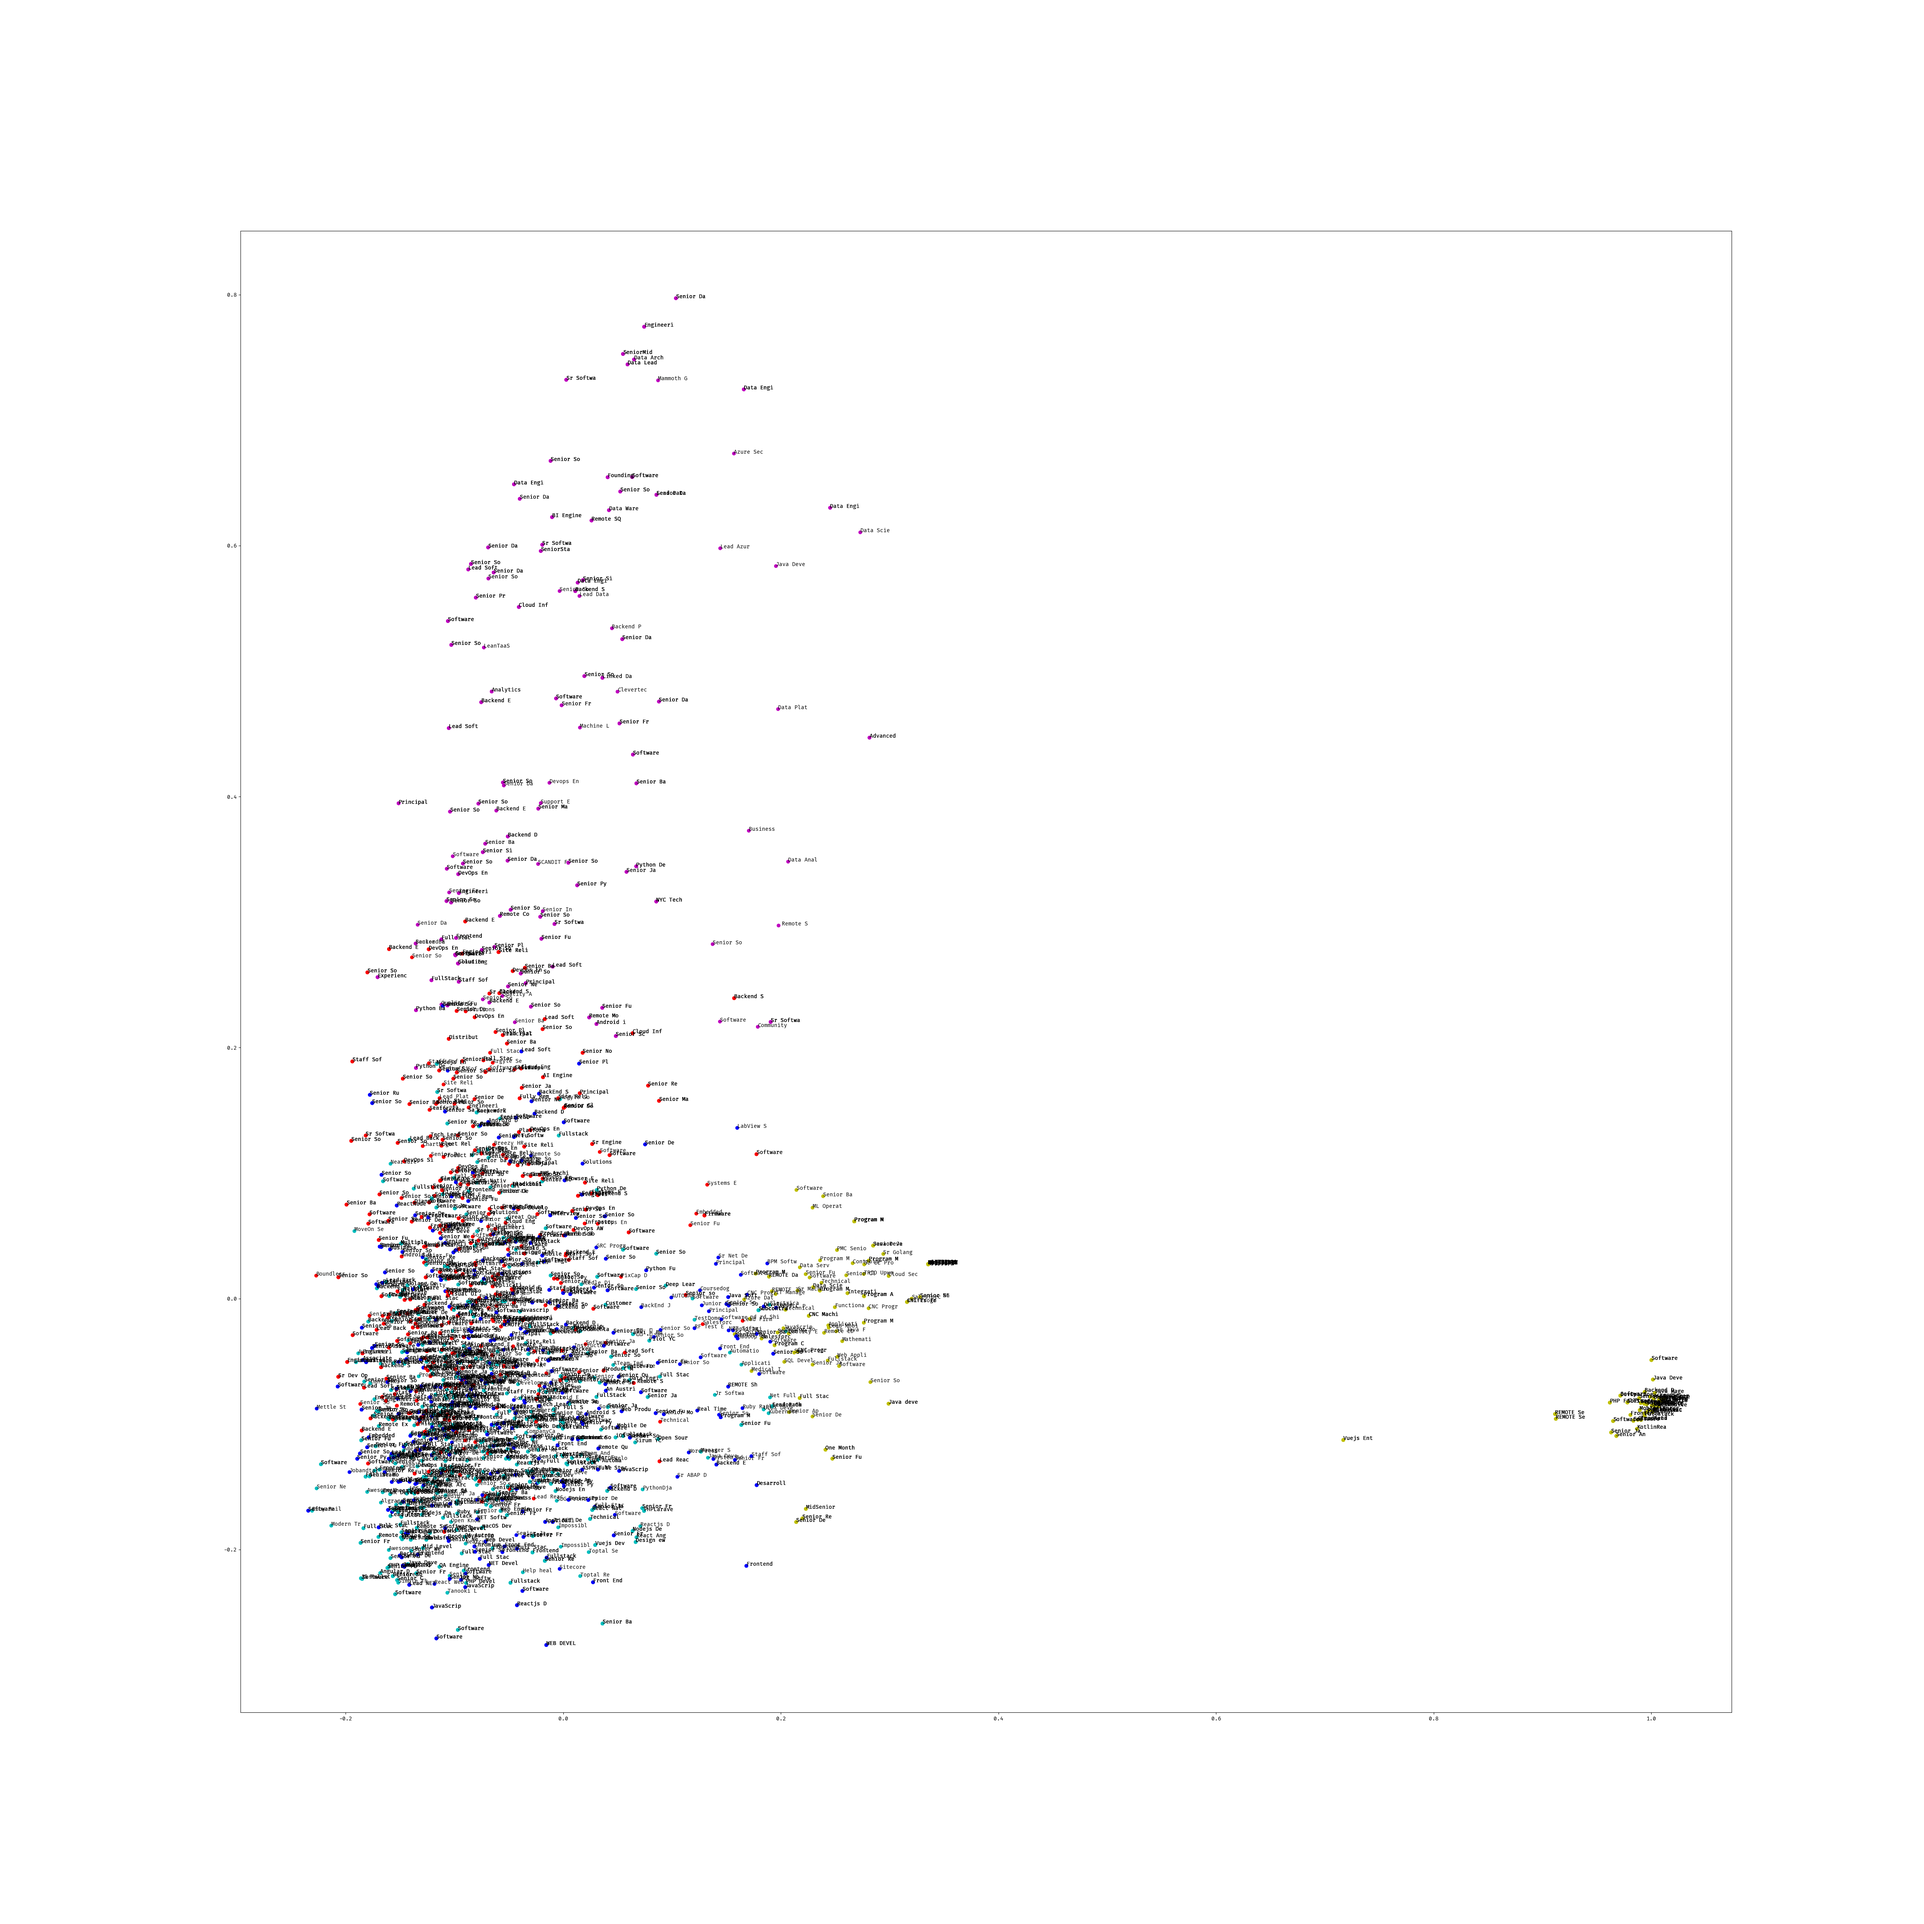
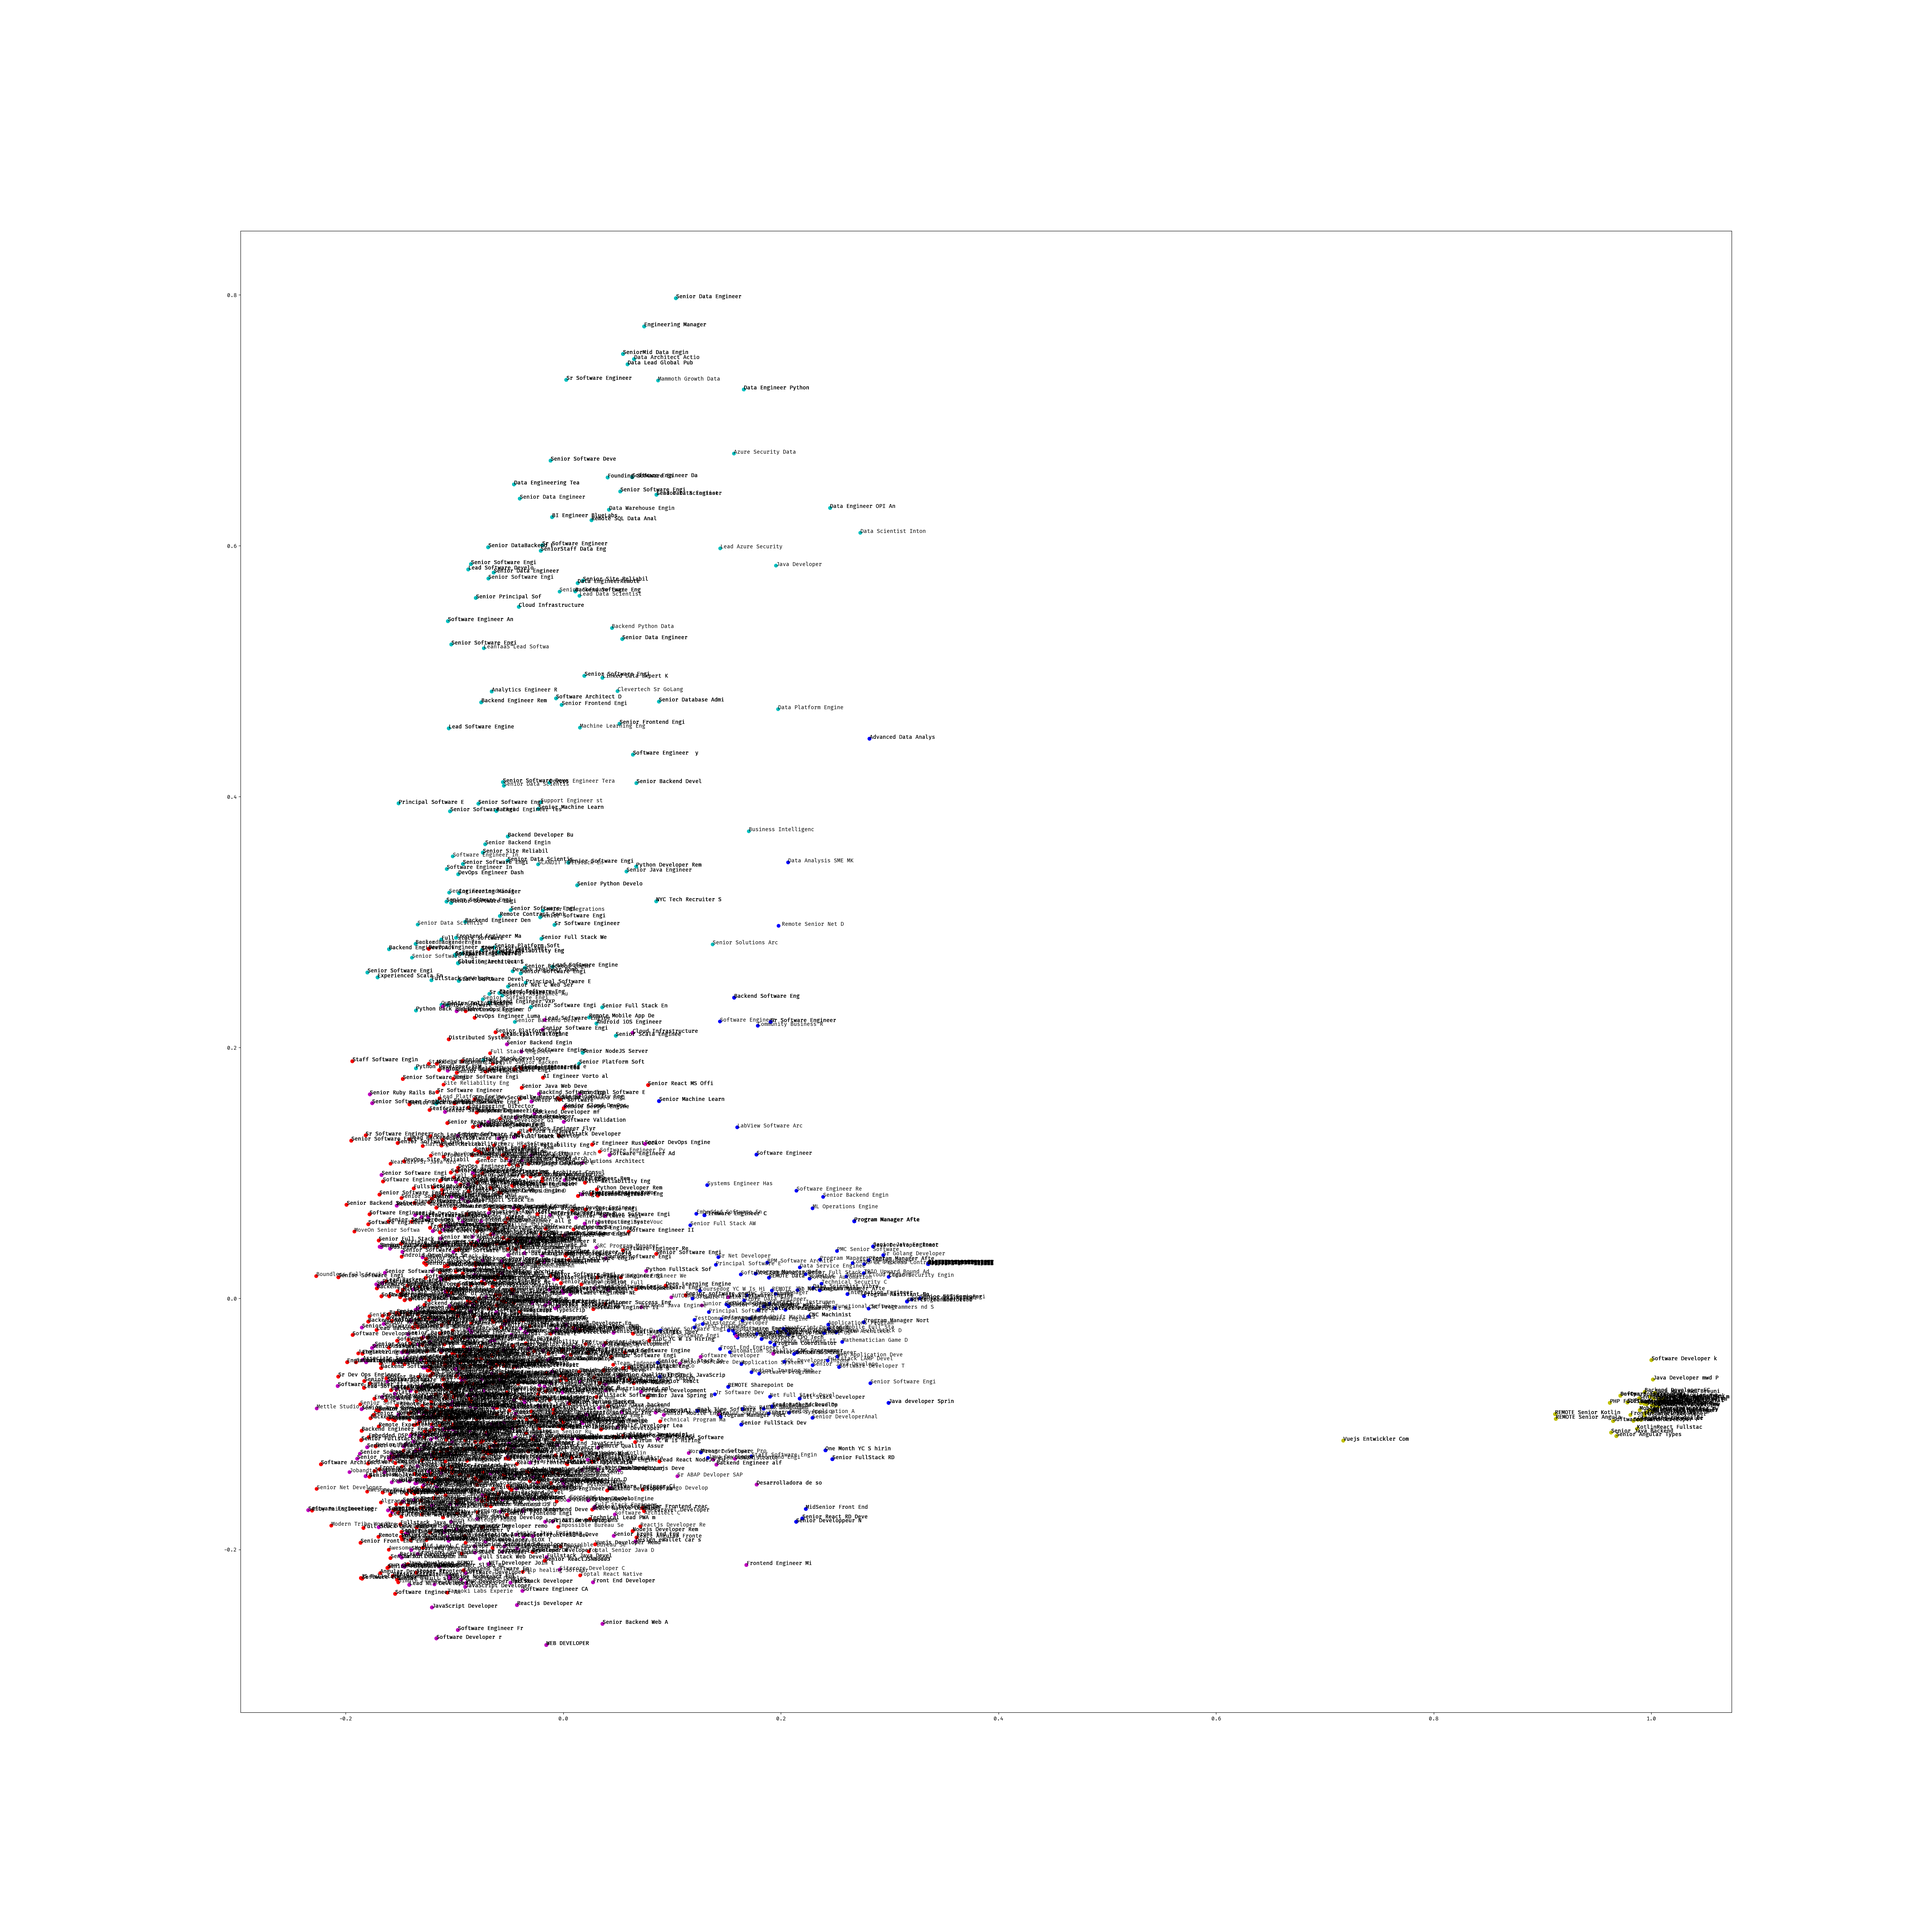
Generating data

Changed region(s): [[0.1872, 0.4056, 0.4992, 0.8424], [0.8424, 0.7176, 0.9048, 0.7488], [0.2496, 0.2808, 0.312, 0.312]]

diff --git a/lib/main.py b/lib/main.py
@@ -49,10 +49,10 @@ def clean_docs(docs):
     return(final)
 
 def run_td_idf_example():
-    descriptions = load_data("/Users/mike/projects/outlier_jobs/core/lib/corpus.json")["descriptions"] # [:100]
+    descriptions = load_data("/Users/mike/projects/outlier_jobs/core/lib/corpus.json")["descriptions"]
     descriptions = clean_docs(descriptions)
 
-    names = load_data("/Users/mike/projects/outlier_jobs/core/lib/corpus.json")["names"] # [:100]
+    names = load_data("/Users/mike/projects/outlier_jobs/core/lib/corpus.json")["names"]
     names = clean_docs(names)
 
     td_idf_example(descriptions, names)
@@ -100,19 +100,10 @@ def td_idf_example(descriptions, names):
             print('  %s' % terms[ind],)
         print("")
 
-    # with open("/Users/mike/Desktop/results.txt", "w", encoding="utf-8") as file:
-    #     for i in range(true_k):
-    #         file.write(f"Cluster {i}")
-    #         file.write("\n")
-    #         for ind in order_centroids[i, :10]:
-    #             file.write('  %s' % terms[ind],)
-    #             file.write("\n")
-    #         file.write("\n")
-    #         file.write("\n")
-
     from matplotlib import rcParams
-    rcParams['font.family'] = 'sans-serif'
+    rcParams['font.family'] = 'sans'
     rcParams['font.sans-serif'] = ['FiraCode Nerd Font Mono', 'Fira Code', 'Menlo']
+
     import matplotlib.pyplot as plt
     from sklearn.decomposition import PCA
 
@@ -131,9 +122,19 @@ def td_idf_example(descriptions, names):
     ax.scatter(x_axis, y_axis, c=[colors[d] for d in kmean_indices])
 
     for i, txt in enumerate(names):
-        ax.annotate(txt[0:9], (x_axis[i], y_axis[i]))
+        ax.annotate(txt[0:20], (x_axis[i], y_axis[i]))
 
     plt.savefig("data.png")
 
 if __name__ == '__main__':
     run_td_idf_example()
+
+# with open("/Users/mike/Desktop/results.txt", "w", encoding="utf-8") as file:
+#     for i in range(true_k):
+#         file.write(f"Cluster {i}")
+#         file.write("\n")
+#         for ind in order_centroids[i, :10]:
+#             file.write('  %s' % terms[ind],)
+#             file.write("\n")
+#         file.write("\n")
+#         file.write("\n")
